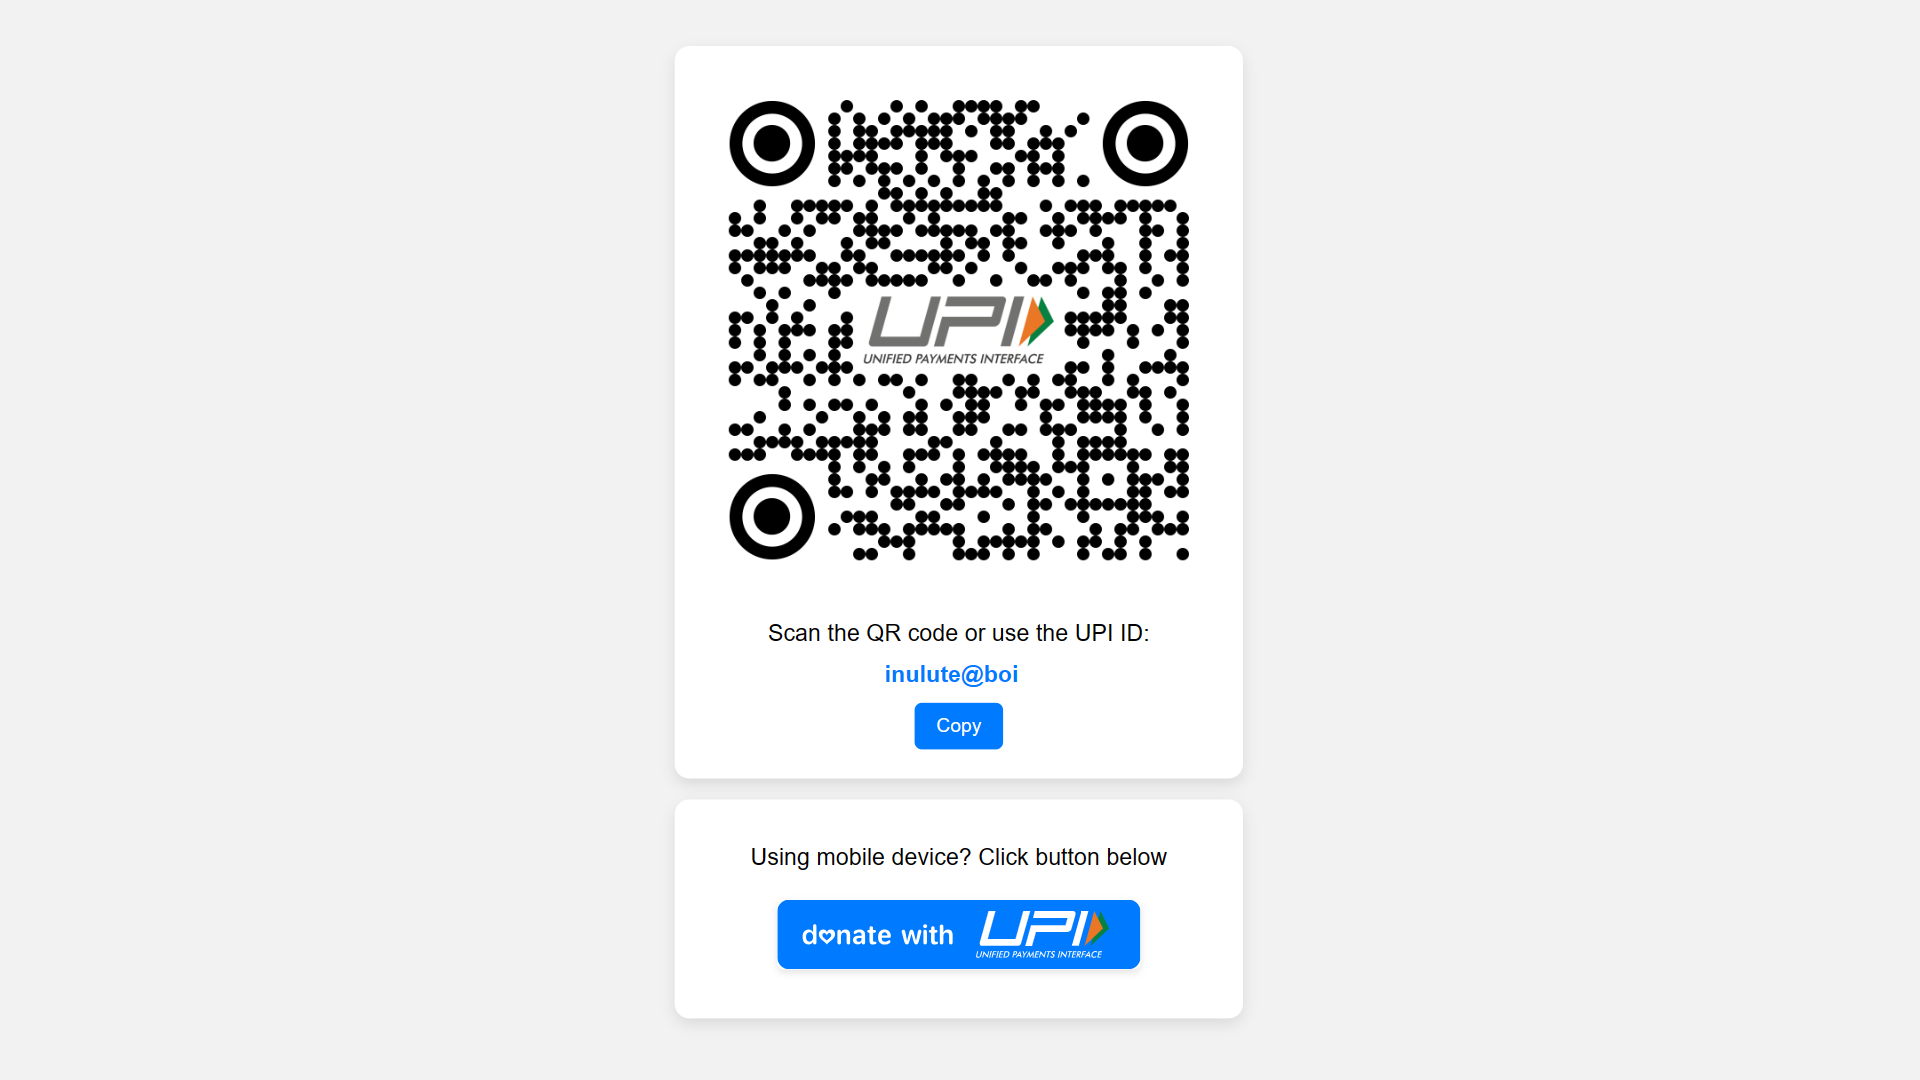
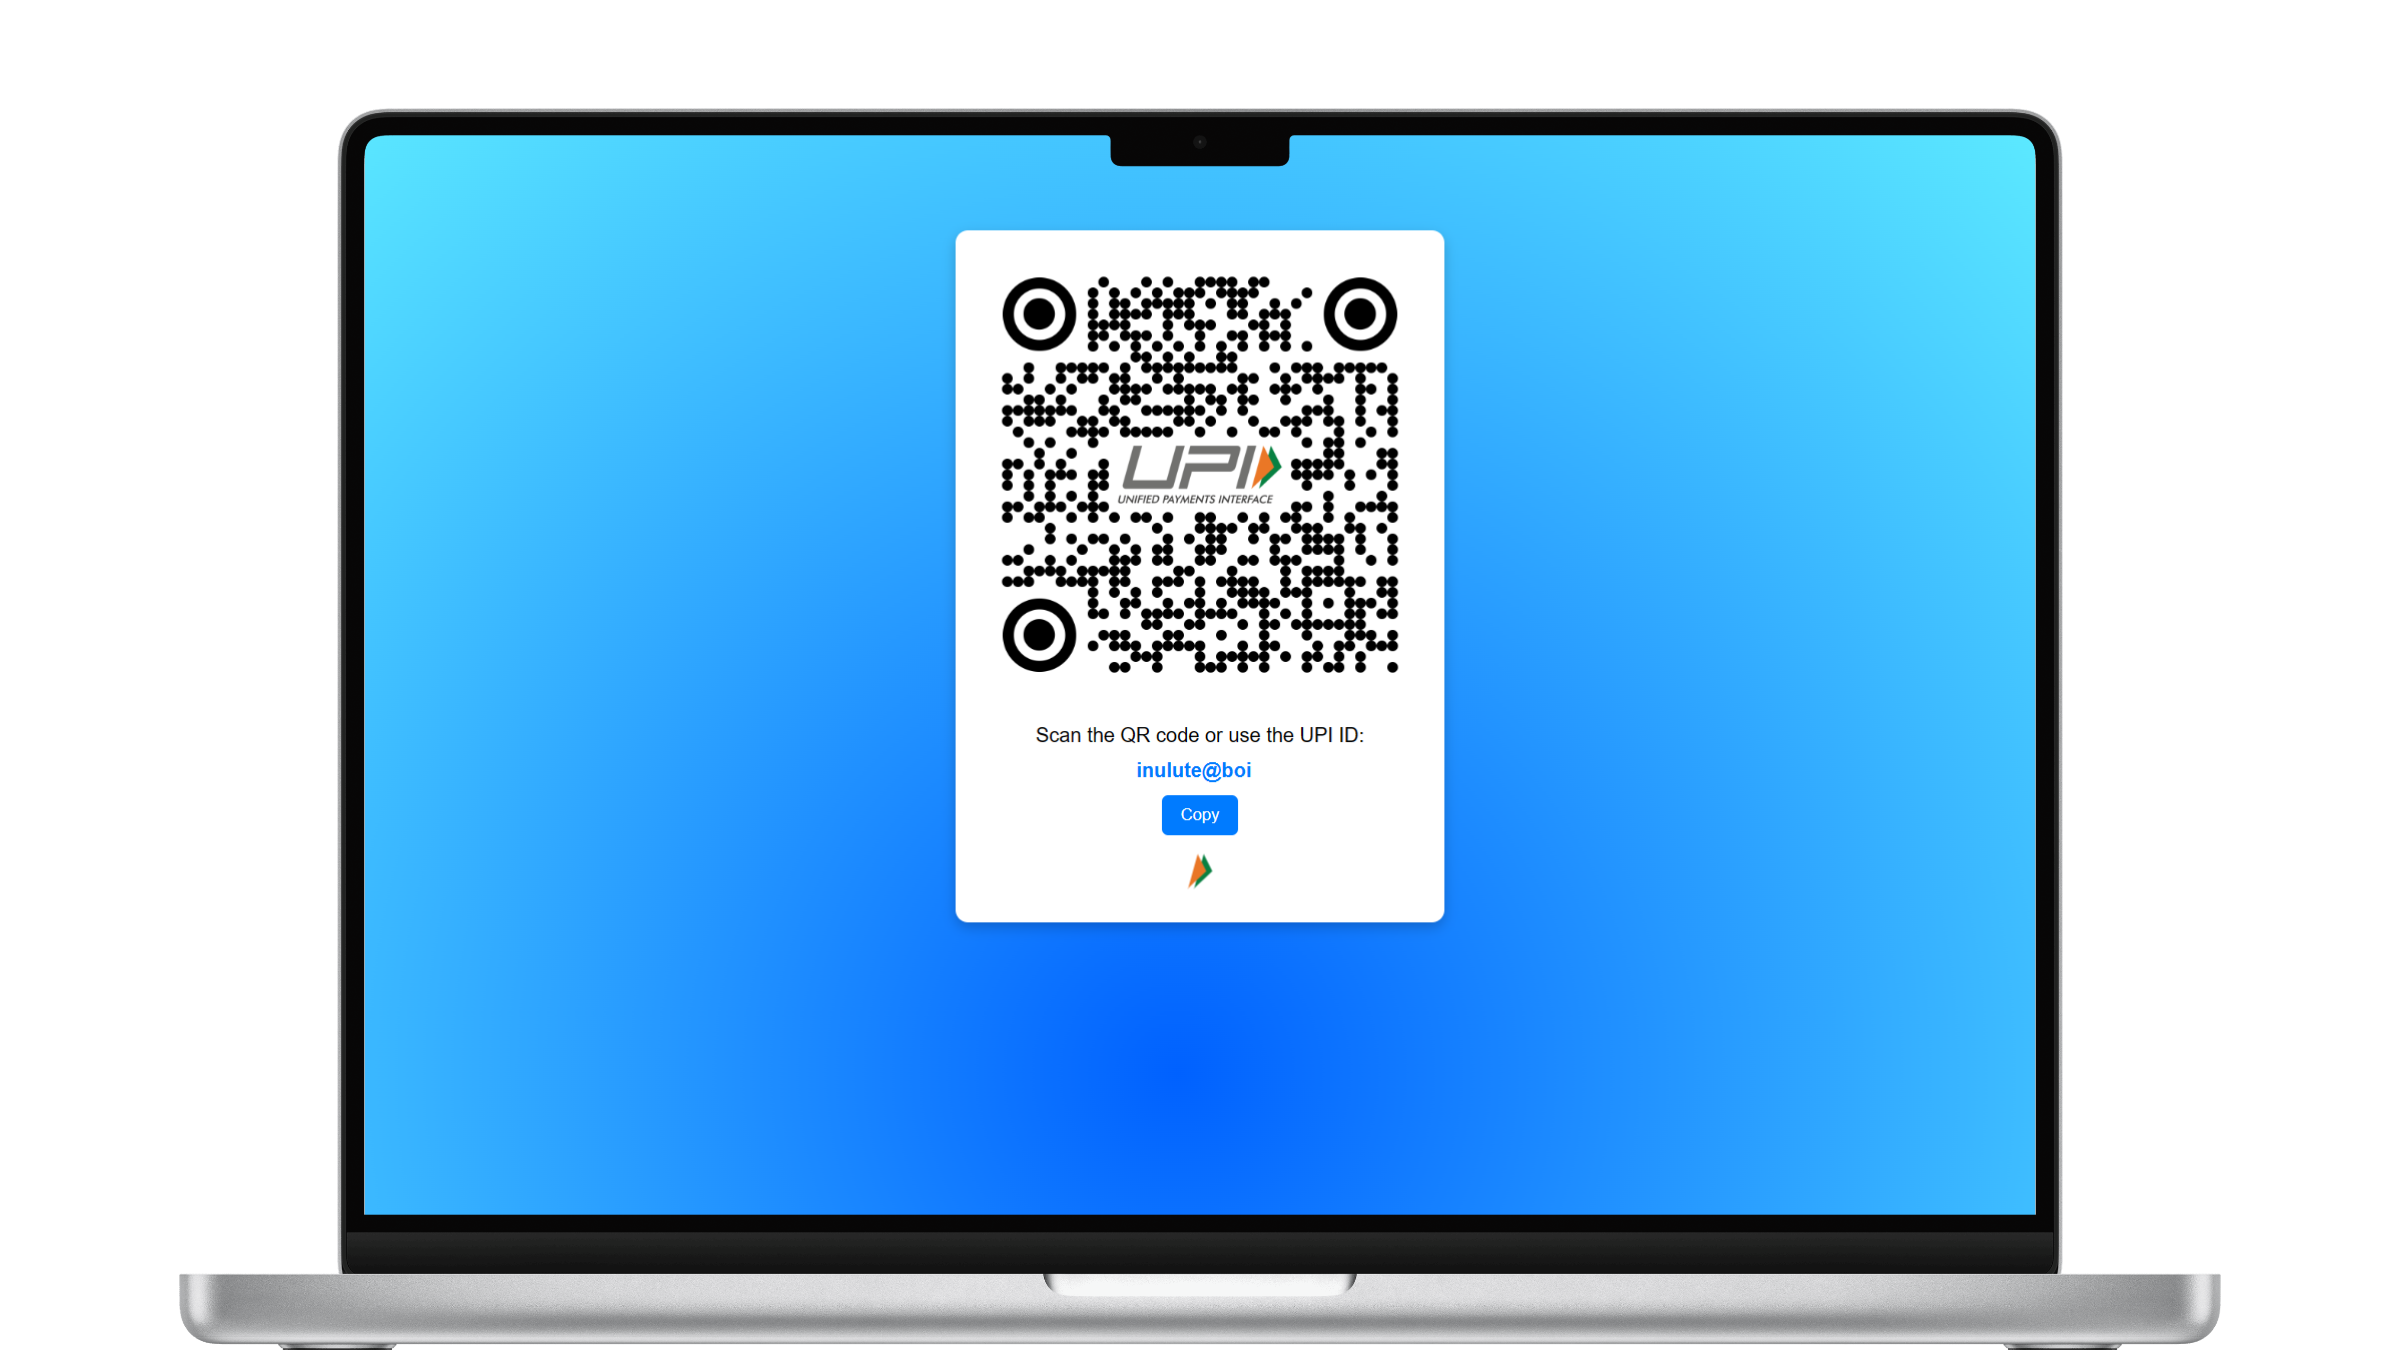
Update index.html

diff --git a/index.html b/index.html
@@ -2,9 +2,10 @@
 <html lang="en">
 <head>
     <meta charset="UTF-8">
-    <meta name="viewport" content="width=device-width, initial-scale=1.0">
+    <meta name="viewport" content="width=device-width">
     <link rel="stylesheet" href="styles.css">
     <link rel="icon" href="assets/inulute_icn.ico" type="image/x-icon" />
+    <script src="https://unpkg.com/@lottiefiles/lottie-player@latest/dist/lottie-player.js"></script>
     <title>UPI Donation</title>
 </head>
 <body>
@@ -18,6 +19,15 @@
                 <div class="upi-id-content">
                     <strong id="upi-id">inulute@boi</strong>
                     <button id="copy-button" class="copy-button">Copy</button>
+                    <lottie-player 
+                        src="https://lottie.host/2b51d7af-7099-49f5-93df-f8190dde11bb/WU9eejAueC.json"
+                        background="#FFFFFF"
+                        speed="1.5"
+                        loop
+                        autoplay
+                        direction="1"
+                        mode="normal" class="upi-icon"
+                    ></lottie-player>
                 </div>
             </div>
         </div>

diff --git a/styles.css b/styles.css
@@ -4,8 +4,8 @@ body {
     padding: 0;
     background-color: #f2f2f2;
     user-select: none;
-    background: url('/assets/upi_logo.svg') repeat;
-    background-size: 50px 75px;
+    height: auto;
+    background-image: url("/assets/background.svg");
 }
 
 .container {
@@ -13,7 +13,6 @@ body {
     flex-direction: column;
     align-items: center;
     justify-content: center;
-    height: 100vh;
 }
 
 .qr-container {
@@ -24,11 +23,12 @@ body {
     background-color: #ffffff;
     border-radius: 10px;
     box-shadow: 0px 4px 10px rgba(0.2, 0.2, 0.2, 0.2);
-    margin-top: 20px;
-    margin-bottom: 20px;
+    margin-top: 10px;
+    margin-bottom: 10px;
     max-width: 350px;
     overflow-x: hidden;
     margin: 5%;
+    height: auto;
       
 }
 
@@ -37,11 +37,6 @@ body {
     max-width: 100%;
     height: auto;
   }
-
-.upi-id {
-    margin-top: 10px;
-    text-align: center;
-}
 
 .upi-id {
     margin-top: 20px;
@@ -83,3 +78,12 @@ body {
 * {
     -webkit-tap-highlight-color: transparent;
   }
+.upi-icon {
+    width: 40px;
+    height: auto;
+    margin-top: 10px;
+
+}
+
+
+
